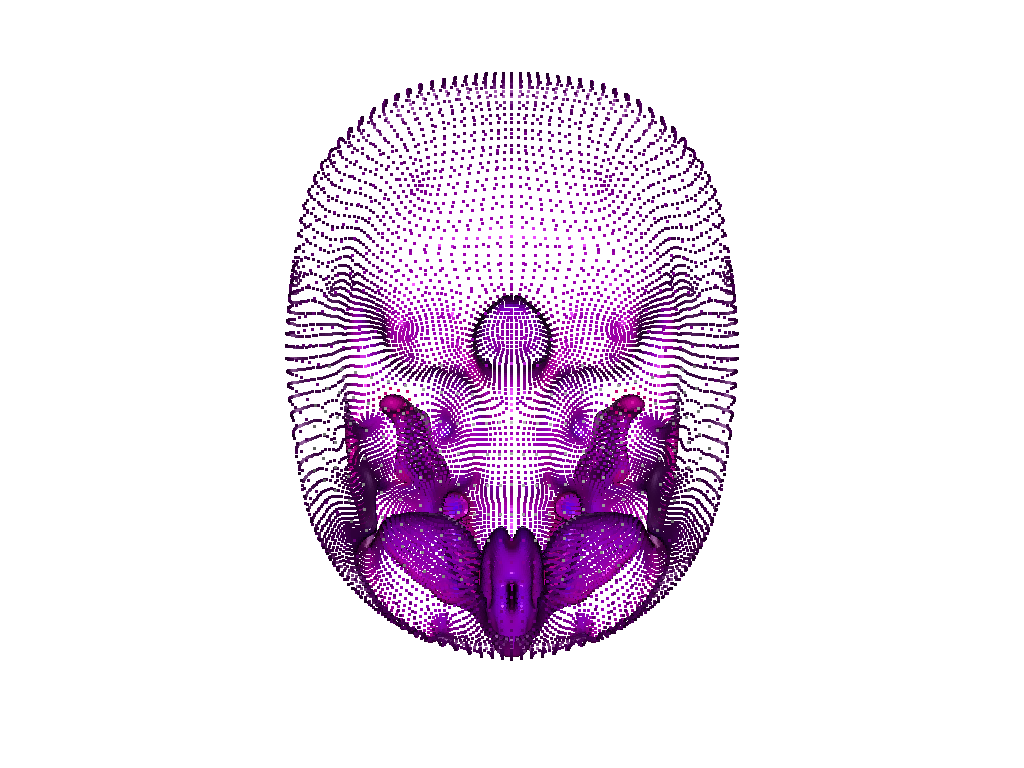
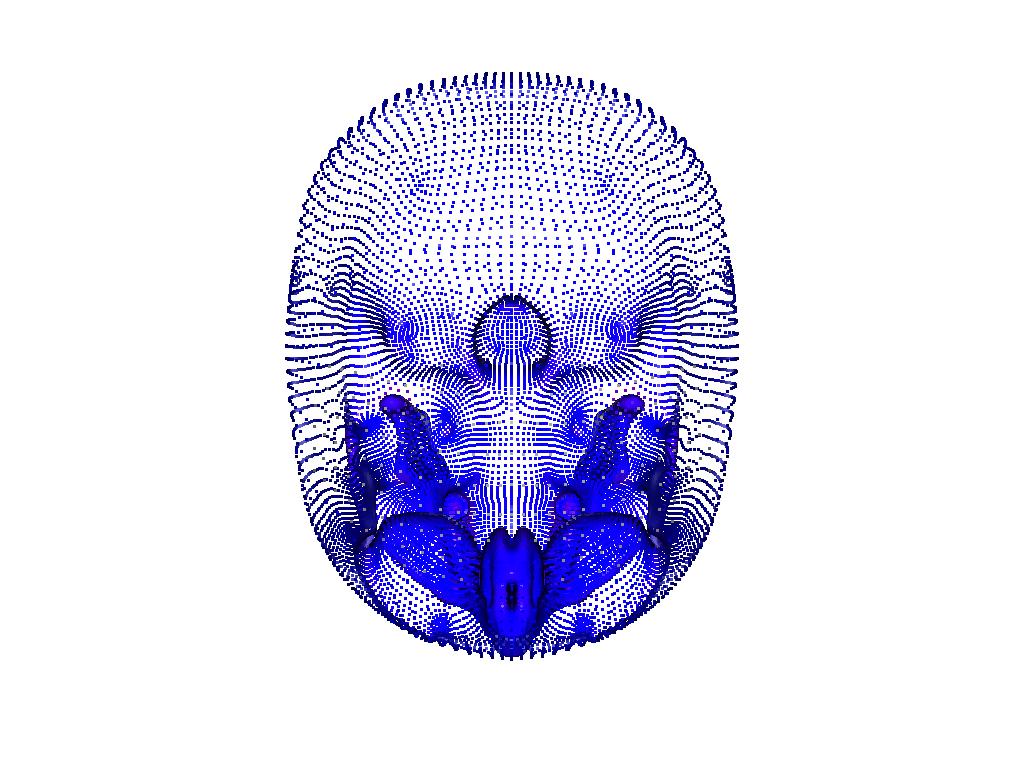
working with absolute value of τ

Changed region(s): [[0.2812, 0.0938, 0.7188, 0.875]]

diff --git a/src/visualization.py b/src/visualization.py
@@ -20,56 +20,70 @@ import numpy as np
 import open3d as o3d
 
 
-def _tau_to_color(tau_values, tau_min, tau_max):
+def _tau_to_color(tau_values, abs_tau_min, abs_tau_max):
     """
-    Convertit un vecteur de τ en couleurs RGB linéaires.
+    Convertit |τ| en couleurs RGB linéaires.
     NaN → gris.
+    
+    Le signe de τ est ignoré : seule l'intensité (distance à 0) compte.
+        β = (|τ| - |τ|_min) / (|τ|_max - |τ|_min)
+        couleur = (β, 0, 1 - β)
+    
+    |τ| faible  →  bleu  (proche de la surface)
+    |τ| élevé   →  rouge (loin de la surface)
+    
     Retourne des valeurs ∈ [0, 1].
     """
     n      = len(tau_values)
     colors = np.zeros((n, 3))
-    delta  = tau_max - tau_min
+    delta  = abs_tau_max - abs_tau_min
 
     if delta < 1e-12:
         colors[:] = [0.5, 0.5, 0.5]
         return colors
 
-    betta            = (tau_values - tau_min) / delta   #  β = (τ - τ_min) / (τ_max - τ_min)  ∈ [0, 1]
+    abs_tau          = np.abs(tau_values)                       # ← |τ|
+    betta            = (abs_tau - abs_tau_min) / delta
     colors[:, 0]     = betta            # R = β
     colors[:, 1]     = 0.0              # G = 0
     colors[:, 2]     = 1.0 - betta      # B = 1 - β
-    #couleur = (β, 0, 1 - β)
 
-
-    # NaN (échec du fit) → gris (0.5, 0.5, 0.5) neutre
+    # NaN → gris neutre
     nan_mask         = np.isnan(tau_values)
     colors[nan_mask] = [0.5, 0.5, 0.5]
 
     return np.clip(colors, 0.0, 1.0)
 
 
-def save_tau_colormap_all_scales(pcd, TAU, scales, obj_name, output_dir="notebooks", width=1024, height=768):
+def save_tau_colormap_all_scales(pcd, TAU, scales, obj_name,
+                                 output_dir="notebooks",
+                                 width=1024, height=768):
     """
-    Génère une image PNG du nuage coloré par τ pour chaque échelle.
-    τ_min et τ_max sont calculés sur toutes les échelles → le gradient est identique entre les images.
+    Génère une image PNG du nuage coloré par |τ| pour chaque échelle.
+    |τ|_min et |τ|_max sont calculés sur toutes les échelles.
     """
     folder = os.path.join(output_dir, obj_name)
     os.makedirs(folder, exist_ok=True)
 
-    tau_min = float(np.nanmin(TAU))
-    tau_max = float(np.nanmax(TAU))
+    # ────── BORNES SUR |τ| ──────
+    abs_TAU     = np.abs(TAU)
+    abs_tau_min = float(np.nanmin(abs_TAU))
+    abs_tau_max = float(np.nanmax(abs_TAU))
+    # ────────────────────────────
 
-    print(f"\n[TAU-COLOR] Génération des images τ pour {len(scales)} échelles")
-    print(f"[TAU-COLOR] τ_min global = {tau_min:+.6f}  →  bleu  (0, 0, 1)")
-    print(f"[TAU-COLOR] τ_max global = {tau_max:+.6f}  →  rouge (1, 0, 0)")
+    # Bornes signées (pour information)
+    tau_min_signed = float(np.nanmin(TAU))
+    tau_max_signed = float(np.nanmax(TAU))
+    print(f"\n[TAU-COLOR] Génération des images |τ| pour {len(scales)} échelles")
+    print(f"[TAU-COLOR] τ signé     : min = {tau_min_signed:+.6f}   max = {tau_max_signed:+.6f}")
+    print(f"[TAU-COLOR] |τ| utilisé : min = {abs_tau_min:.6f}        max = {abs_tau_max:.6f}")
+    print(f"[TAU-COLOR] Gradient    : bleu (|τ| min)  →  rouge (|τ| max)")
 
-    # Sauvegarder les couleurs originales pour restaurer plus tard
     original_colors = (np.asarray(pcd.colors).copy()
                        if len(pcd.colors) > 0 else None)
 
     n_scales = len(scales)
 
-    # Créer un seul visualiseur réutilisé pour toutes les échelles
     vis = o3d.visualization.Visualizer()
     vis.create_window(visible=False, width=width, height=height)
     vis.add_geometry(pcd)
@@ -77,23 +91,17 @@ def save_tau_colormap_all_scales(pcd, TAU, scales, obj_name, output_dir="noteboo
     opt = vis.get_render_option()
     opt.background_color = np.array([1.0, 1.0, 1.0])
     opt.point_size       = 3.0
-    # Cadrage initial sur le nuage complet
     vis.reset_view_point(True)
 
     for j, t in enumerate(scales):
+        # Passage des bornes |τ|
+        colors = _tau_to_color(TAU[:, j], abs_tau_min, abs_tau_max)
 
-        # 1. Calculer les couleurs pour cette échelle
-        colors = _tau_to_color(TAU[:, j], tau_min, tau_max)
-
-        # 2. Appliquer directement sur le pcd original
         pcd.colors = o3d.utility.Vector3dVector(colors)
-
-        # 3. Notifier Open3D que la géométrie a changé
         vis.update_geometry(pcd)
         vis.poll_events()
         vis.update_renderer()
 
-        # 4. Capturer
         png_path = os.path.join(
             folder,
             f"{obj_name}_tau_s{j+1:02d}_t{t:.4f}.png"
@@ -104,7 +112,6 @@ def save_tau_colormap_all_scales(pcd, TAU, scales, obj_name, output_dir="noteboo
 
     vis.destroy_window()
 
-    # Restaurer les couleurs originales du PCD
     if original_colors is not None and len(original_colors) > 0:
         pcd.colors = o3d.utility.Vector3dVector(original_colors)
     else:
@@ -115,22 +122,18 @@ def save_tau_colormap_all_scales(pcd, TAU, scales, obj_name, output_dir="noteboo
 
 def show_tau_colormap_interactive(pcd, TAU, scales, scale_index=0):
     """
-    Ouvre une fenêtre Open3D interactive coloration τ pour une échelle donnée.
-
-    Touches :
-      souris    : rotation
-      molette   : zoom
-      P         : capture d'écran
-      Q / Échap : quitter
+    Ouvre une fenêtre Open3D interactive avec coloration |τ| pour
+    une échelle donnée.
     """
-    tau_min = float(np.nanmin(TAU))
-    tau_max = float(np.nanmax(TAU))
+    abs_TAU     = np.abs(TAU)
+    abs_tau_min = float(np.nanmin(abs_TAU))
+    abs_tau_max = float(np.nanmax(abs_TAU))
 
-    colors             = _tau_to_color(TAU[:, scale_index], tau_min, tau_max)
+    colors             = _tau_to_color(TAU[:, scale_index], abs_tau_min, abs_tau_max)
     pcd_colored        = copy.deepcopy(pcd)
     pcd_colored.colors = o3d.utility.Vector3dVector(colors)
 
-    title = (f"τ — échelle {scale_index+1}/{len(scales)} "
+    title = (f"|τ| — échelle {scale_index+1}/{len(scales)} "
              f"(t={scales[scale_index]:.4f})")
 
     o3d.visualization.draw_geometries(
